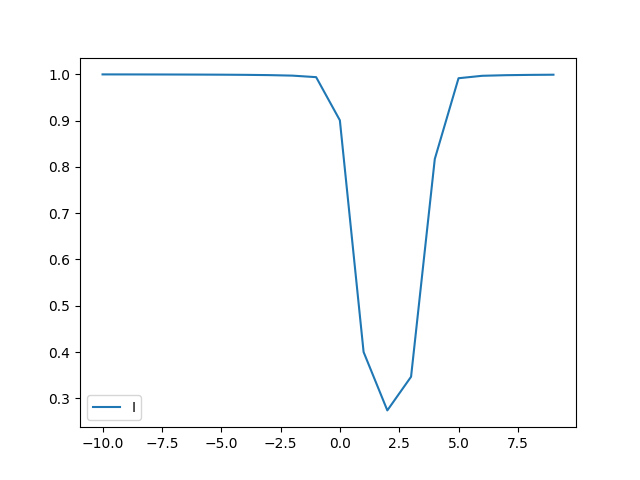
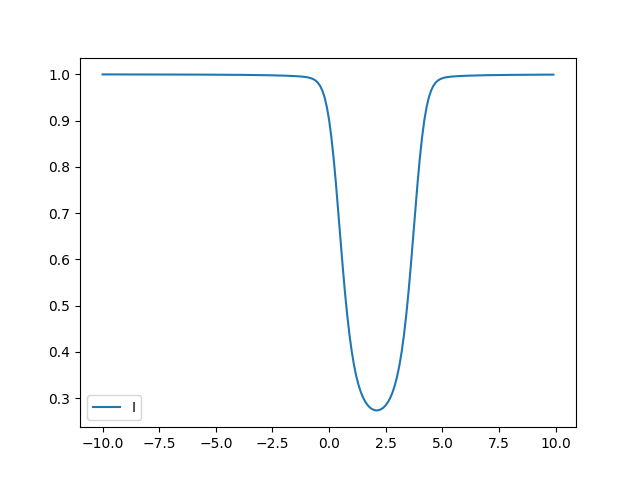
Figures
Made the plots smoother.

diff --git a/src/Tranpol.py b/src/Tranpol.py
@@ -445,7 +445,7 @@ if __name__ == '__main__' :
 
     #trcoefstest(np.arange(nu_start,nu_stop,nu_step),lv_convert(300e-9),lv_convert(5247.1e-10),2,3,2,2,2,3,30j,m.pi/4,m.pi/4,1)
 
-    v = v(np.arange(6301.5-1,6301.5+1,0.1),6301.5,0.1)
+    v = v(np.arange(6301.5-1,6301.5+1,0.01),6301.5,0.1)
 
     v_A = v_A(6301.5,10e3,0.1)
 
